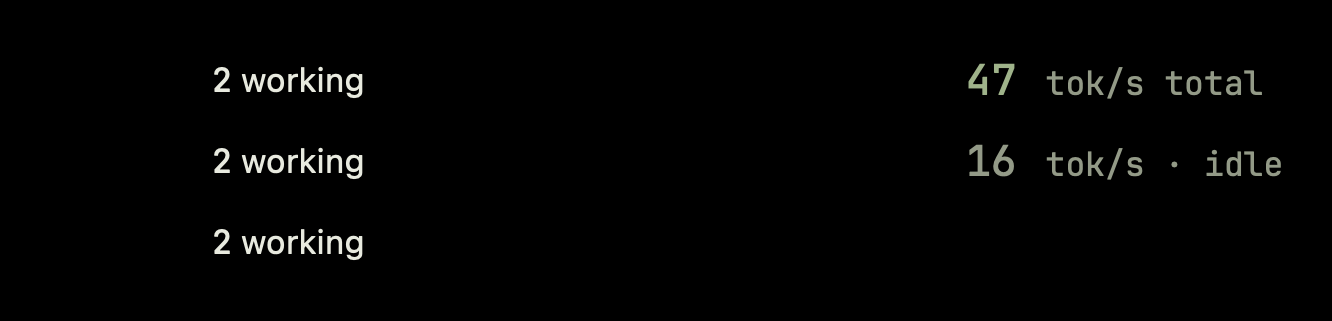
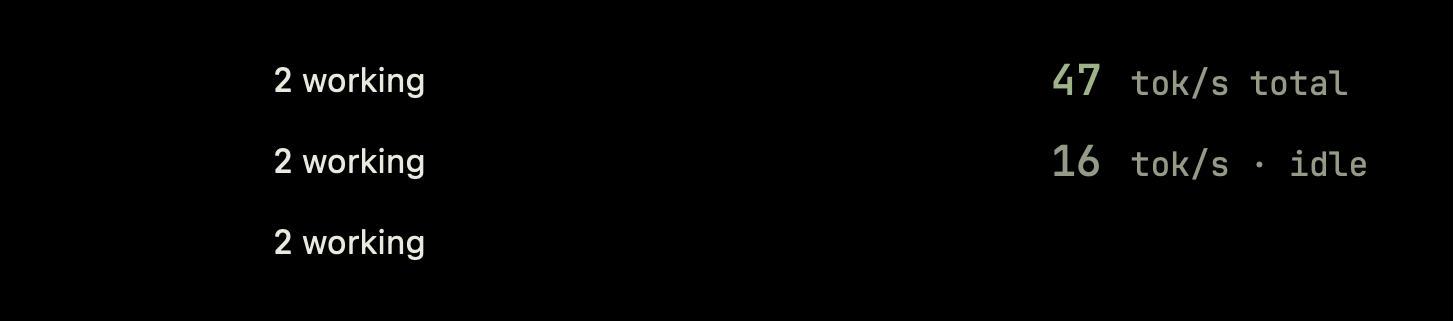
fleet: the closed bar fits its content (463 -> 305 pt on this display)
The collapsed fleet bar drew both wings at the wider side's content and always kept
notchWidth + 10 in the middle, so on a display with no camera cutout (this machine's
1200x1920 panel, closed notch 185x30) a 195 pt empty middle sat in a 463 pt bar whose
text is 185 pt. Owner: "much wider than its content".

- Each wing is now the wider side's content plus 12 pt padding (closedRowSidePadding);
  the row's whole width comes from closedRowWidth.
- The middle keeps the camera gap only where a display has a hardware notch
  (closedRowGap: notchWidth + 10, the cutout plus 5 pt of clearance per side). Without
  one there is no cutout to clear, so the middle is one padding wide.
- The speed number reserves three digits (closedNumberMinWidth), so 0 -> 147 leaves the
  wing and the bar where they are; both numbers stay on the tabular mono face.
- closedSparklineWidth 40 -> 24 pays for that reserve, the way the height cut took its
  budget from the sparkline's height in #28.

Sample content "0 working" / sparkline + "0" + " tok/s total": 463 -> 305.5 pt
(2 x 134 + 195 -> 2 x (134.4 + 12) + 12) = 66.0 %, the visible bar with the closed
notch's own padding 491 -> 333.5 pt = 67.9 %. "12 working" / "147 tok/s total":
497 -> 305.5 pt = 61.5 %. Height, open notch and data unchanged.

Tests: 223, 0 failures, including the new content-fit/70 %, equal-wing centring (with
the ink positions measured) and three-digit stability cases.

diff --git a/boringNotchTests/FleetFormatTests.swift b/boringNotchTests/FleetFormatTests.swift
@@ -174,10 +174,11 @@ final class FleetFormatTests: XCTestCase {
         XCTAssertEqual(FleetFormat.closedAlert(critical: 3, down: 1), "3 critical")
     }
 
-    /// Both sides take the wider text, never past the cap: a short row makes a narrow notch.
+    /// Both sides take the wider content plus the wing padding, never past the cap: a short row makes
+    /// a narrow notch.
     func testClosedRowSideTakesTheWiderTextUpToTheCap() {
-        XCTAssertEqual(FleetPanelMetrics.closedRowSide(left: 60, right: 70), 70)
-        XCTAssertEqual(FleetPanelMetrics.closedRowSide(left: 90, right: 70), 90)
+        XCTAssertEqual(FleetPanelMetrics.closedRowSide(left: 60, right: 70), 82)
+        XCTAssertEqual(FleetPanelMetrics.closedRowSide(left: 90, right: 70), 102)
         XCTAssertEqual(FleetPanelMetrics.closedRowSide(left: 400, right: 70), FleetPanelMetrics.closedRowSideWidth)
     }
 
@@ -642,11 +643,11 @@ final class FleetFormatTests: XCTestCase {
     }
 
     /// The row draws its sparkline at exactly this frame, so the number beside it never moves the
-    /// notch: the strip the preview shows is 40 pt of trend, 10 pt tall - the 0.7 x 14 share rounded
-    /// to a whole point, so the sparkline stays inside the shorter bar. The width is the bar's width
-    /// budget and does not change, because the cut is height-only.
+    /// notch: the strip the preview shows is 24 pt of trend, 10 pt tall - the 0.7 x 14 share rounded
+    /// to a whole point, so the sparkline stays inside the shorter bar. The 24 pt width is the width
+    /// cut's share of the bar's width budget: it pays for the speed number's three-digit reserve.
     func testClosedSparklineFrameIsItsFixedSize() {
-        XCTAssertEqual(FleetPanelMetrics.closedSparklineWidth, 40)
+        XCTAssertEqual(FleetPanelMetrics.closedSparklineWidth, 24)
         XCTAssertEqual(FleetPanelMetrics.closedSparklineHeight, 10,
                        "0.7 x 14, rounded to a whole point")
         XCTAssertLessThan(FleetPanelMetrics.closedSparklineHeight,
@@ -914,7 +915,7 @@ final class FleetFormatTests: XCTestCase {
                        "the zeroed reading never says idle, got \(zero.unit)")
     }
 
-    /// The closed row prints the number at `closedSpeedNumberSize` beside a 40 pt sparkline, so a
+    /// The closed row prints the number at `closedSpeedNumberSize` beside a 24 pt sparkline, so a
     /// long number - or an idle reading with its " · idle" tail - trades its rate words down the
     /// ladder " tok/s total" -> " tok/s" -> " t/s" until the pair fits the row's text budget again.
     /// The idle suffix rides on every candidate, so the budget only ever trims the rate words in
@@ -922,10 +923,11 @@ final class FleetFormatTests: XCTestCase {
     func testClosedSpeedUnitLadderNarrowsForALongNumber() {
         XCTAssertEqual(FleetFormat.closedSpeedUnit(number: "47", total: true), " tok/s total")
         XCTAssertEqual(FleetFormat.closedSpeedUnit(number: "47", total: false), " tok/s")
-        // Long enough that even " tok/s" does not fit beside the number: the short form wins.
-        XCTAssertEqual(FleetFormat.closedSpeedUnit(number: "1234567890", total: true), " t/s")
-        XCTAssertEqual(FleetFormat.closedSpeedUnit(number: "1234567890", total: false), " t/s")
-        // The idle ladder keeps the same order: the " · idle" tail never drops, and it is the 40 pt
+        // Ten digits: 24 pt sparkline + 3 + 84 (the digits) + 3 + 39.6 (" tok/s") = 153.6 <= 160, so
+        // " tok/s" fits and only the " total" word is trimmed; the short form is no longer the fallback.
+        XCTAssertEqual(FleetFormat.closedSpeedUnit(number: "1234567890", total: true), " tok/s")
+        XCTAssertEqual(FleetFormat.closedSpeedUnit(number: "1234567890", total: false), " tok/s")
+        // The idle ladder keeps the same order: the " · idle" tail never drops, and it is the 24 pt
         // sparkline sharing the row's budget that trims the rate words in front of it - measured at
         // the bundled mono, " tok/s total · idle" is too wide beside a two-digit number, so "total"
         // goes and the kept value reads " tok/s · idle".
@@ -937,7 +939,9 @@ final class FleetFormatTests: XCTestCase {
 
         // The fit helper measures the same pair the row renders.
         XCTAssertTrue(FleetFormat.closedSpeedFits(number: "47", unit: " tok/s total"))
-        XCTAssertFalse(FleetFormat.closedSpeedFits(number: "1234567890", unit: " tok/s"))
+        // Ten digits: " tok/s" fits (153.6 <= 160) while " tok/s total" does not, so the pair flips there.
+        XCTAssertTrue(FleetFormat.closedSpeedFits(number: "1234567890", unit: " tok/s"))
+        XCTAssertFalse(FleetFormat.closedSpeedFits(number: "1234567890", unit: " tok/s total"))
     }
 
     /// The origin box says "Working" in the skin's accent - the black skin's only green - so
@@ -1145,15 +1149,124 @@ final class FleetFormatTests: XCTestCase {
                        "no ink in the bottommost two pixel rows")
     }
 
+    // Content-sized wings keep the closed bar below seventy percent of its previous width.
+    @MainActor
+    func testTheClosedRowFitsItsContentAndIsUnderSeventyPercentOfTheOldBar() throws {
+        FleetType.registerBundledFonts(in: Bundle(for: FleetFormatTests.self))
+        let theme = FleetTheme(skin: .black)
+        let flat: [Double?] = Array(repeating: 0, count: 60)
+        let zeroReading = try XCTUnwrap(
+            FleetFormat.closedRightReading(speed: FleetSpeed(current: 0, lastAt: nil), jobs: 0, total: true))
+        let bigReading = try XCTUnwrap(
+            FleetFormat.closedRightReading(speed: FleetSpeed(current: 147, lastAt: nil), jobs: 0, total: true))
+        // The bitmap has two wings and two pixels per point.
+        let wing = CGFloat(try rowBitmap(working: 0, alert: nil, reading: zeroReading,
+                                        blackHole: false, gap: 0, trend: flat).pixelsWide) / 4
+        let rightContent = FleetPanelMetrics.closedSparklineWidth + FleetPanelMetrics.closedSpeedSpacing
+            + FleetPanelMetrics.closedNumberMinWidth + FleetPanelMetrics.closedSpeedSpacing
+            + FleetType.monoWidth(text: " tok/s total", size: FleetPanelMetrics.minTextSize)
+        XCTAssertEqual(wing, rightContent + FleetPanelMetrics.closedRowSidePadding, accuracy: 0.5)
+
+        // The old sparkline was 40 pt wide and the speed number had no three-digit reserve.
+        let oldRightContent: CGFloat = 40 + FleetPanelMetrics.closedSpeedSpacing
+            + FleetType.monoWidth(text: "0", size: FleetPanelMetrics.closedSpeedNumberSize, weight: .medium)
+            + FleetPanelMetrics.closedSpeedSpacing
+            + FleetType.monoWidth(text: " tok/s total", size: FleetPanelMetrics.minTextSize)
+        // A display without a hardware notch had a 185 pt closed notch width, and the old code
+        // added 5 pt clearance on each side on every display.
+        let oldWidth = 2 * min(FleetPanelMetrics.closedRowTextWidth, oldRightContent) + (185 + 10)
+        let gap = FleetPanelMetrics.closedRowGap(notchWidth: 185, hasHardwareNotch: false)
+        let newWidth = CGFloat(try rowBitmap(working: 0, alert: nil, reading: zeroReading,
+                                            blackHole: false, gap: gap, trend: flat).pixelsWide) / 2
+        XCTAssertLessThanOrEqual(newWidth, 0.70 * oldWidth,
+                                 "The new width \(newWidth) must be at most 70 percent of the old width \(oldWidth).")
+
+        // Request the preview with `TEST_RUNNER_FLEET_CLOSED_WIDTH_PREVIEW=/tmp/width.png xcodebuild test`.
+        if let previewPath = ProcessInfo.processInfo.environment["FLEET_CLOSED_WIDTH_PREVIEW"] {
+            let renderer = ImageRenderer(content: VStack(spacing: 6) {
+                FleetClosedRowView(working: 0, alert: nil, reading: zeroReading, theme: theme,
+                                   gapWidth: gap, height: closedBarHeight, trend: flat)
+                FleetClosedRowView(working: 12, alert: nil, reading: bigReading, theme: theme,
+                                   gapWidth: gap, height: closedBarHeight, trend: flat)
+                FleetClosedRowView(working: 2, alert: "3 critical", reading: zeroReading, theme: theme,
+                                   gapWidth: gap, height: closedBarHeight, trend: flat)
+            }.padding(.horizontal, 14).padding(.vertical, 6).background(Color.black))
+            renderer.scale = 3
+            XCTAssertNotNil(renderer.nsImage, "The closed-width preview rendered.")
+            let image = try XCTUnwrap(renderer.nsImage)
+            let bitmap = try XCTUnwrap(NSBitmapImageRep(data: try XCTUnwrap(image.tiffRepresentation)))
+            let png = try XCTUnwrap(bitmap.representation(using: .png, properties: [:]))
+            XCTAssertNoThrow(try Data(png).write(to: URL(fileURLWithPath: previewPath)),
+                             "The closed-width preview wrote.")
+        }
+    }
+
+    // Equal wings keep the middle centred even when the working count changes.
+    @MainActor
+    func testTheClosedRowWingsAreEqualSoTheMiddleStaysCentred() throws {
+        FleetType.registerBundledFonts(in: Bundle(for: FleetFormatTests.self))
+        let flat: [Double?] = Array(repeating: 0, count: 60)
+        let zeroReading = try XCTUnwrap(
+            FleetFormat.closedRightReading(speed: FleetSpeed(current: 0, lastAt: nil), jobs: 0, total: true))
+        let rightContent = FleetPanelMetrics.closedSparklineWidth + FleetPanelMetrics.closedSpeedSpacing
+            + FleetPanelMetrics.closedNumberMinWidth + FleetPanelMetrics.closedSpeedSpacing
+            + FleetType.monoWidth(text: " tok/s total", size: FleetPanelMetrics.minTextSize)
+        let wing = FleetPanelMetrics.closedRowSide(left: 0, right: rightContent)
+        let gap = FleetPanelMetrics.closedRowGap(notchWidth: 185, hasHardwareNotch: false)
+        let bitmap = try rowBitmap(working: 0, alert: nil, reading: zeroReading,
+                                   blackHole: false, gap: gap, trend: flat)
+        let busyBitmap = try rowBitmap(working: 12, alert: nil, reading: zeroReading,
+                                       blackHole: false, gap: gap, trend: flat)
+        let scale: CGFloat = 2
+        XCTAssertEqual(CGFloat(bitmap.pixelsWide) / scale, CGFloat(busyBitmap.pixelsWide) / scale, accuracy: 0.5)
+        // The render snaps to the half-point pixel grid, and SwiftUI's text measurement can sit a
+        // fraction from NSFont's, so the rendered width is the metric's arithmetic rounded to that
+        // grid (305.5 rendered against 304.8 from the metrics at scale 2).
+        XCTAssertEqual(CGFloat(bitmap.pixelsWide) / scale, 2 * wing + gap, accuracy: 1.0)
+
+        // Ink is any sRGB channel above 0.05 against the black background.
+        func hasInk(inColumn x: Int) -> Bool {
+            for y in 0..<bitmap.pixelsHigh {
+                guard let pixel = bitmap.colorAt(x: x, y: y)?.usingColorSpace(.sRGB) else { continue }
+                if pixel.redComponent > 0.05 || pixel.greenComponent > 0.05 || pixel.blueComponent > 0.05 {
+                    return true
+                }
+            }
+            return false
+        }
+        let lastLeftInk = try XCTUnwrap((0..<Int(ceil(wing * scale))).last(where: hasInk))
+        let firstRightInk = try XCTUnwrap(
+            (Int(ceil((wing + gap) * scale))..<bitmap.pixelsWide).first(where: hasInk))
+        XCTAssertEqual(CGFloat(lastLeftInk) / scale, wing, accuracy: 2)
+        XCTAssertEqual(CGFloat(firstRightInk) / scale, wing + gap, accuracy: 2)
+    }
+
+    // Reserving three digits keeps the bar still while the rate changes from zero to 147.
+    @MainActor
+    func testTheClosedSpeedNumberKeepsThreeDigits() throws {
+        FleetType.registerBundledFonts(in: Bundle(for: FleetFormatTests.self))
+        let flat: [Double?] = Array(repeating: 0, count: 60)
+        let zeroReading = try XCTUnwrap(
+            FleetFormat.closedRightReading(speed: FleetSpeed(current: 0, lastAt: nil), jobs: 0, total: true))
+        let bigReading = try XCTUnwrap(
+            FleetFormat.closedRightReading(speed: FleetSpeed(current: 147, lastAt: nil), jobs: 0, total: true))
+        let gap = FleetPanelMetrics.closedRowGap(notchWidth: 185, hasHardwareNotch: false)
+        let zeroWidth = CGFloat(try rowBitmap(working: 0, alert: nil, reading: zeroReading,
+                                             blackHole: false, gap: gap, trend: flat).pixelsWide) / 2
+        let bigWidth = CGFloat(try rowBitmap(working: 0, alert: nil, reading: bigReading,
+                                            blackHole: false, gap: gap, trend: flat).pixelsWide) / 2
+        XCTAssertEqual(zeroWidth, bigWidth, accuracy: 0.5)
+    }
+
     /// The closed row at `closedBarHeight` on black, at scale 2: the frame the closed bar draws in.
     @MainActor
     private func rowBitmap(working: Int, alert: String?, reading: FleetFormat.FleetClosedRightReading?,
-                           blackHole: Bool, trend: [Double?]? = nil) throws -> NSBitmapImageRep {
+                           blackHole: Bool, gap: CGFloat = 200, trend: [Double?]? = nil) throws -> NSBitmapImageRep {
         // The rows ask FleetType for the mono face, whose registration is memoised once per process.
         FleetType.registerBundledFonts(in: Bundle(for: FleetFormatTests.self))
         let renderer = ImageRenderer(content: FleetClosedRowView(
             working: working, alert: alert, reading: reading, theme: FleetTheme(skin: .black),
-            gapWidth: 200, height: closedBarHeight, trend: trend,
+            gapWidth: gap, height: closedBarHeight, trend: trend,
             blackHole: blackHole ? FleetBlackHoleState(working: working, isVisible: true) : .hidden
         ).background(Color.black))
         renderer.scale = 2

diff --git a/boringNotch/components/Fleet/FleetFormat.swift b/boringNotch/components/Fleet/FleetFormat.swift
@@ -549,10 +549,13 @@ enum FleetFormat {
     /// True when the number and unit together stay inside the closed row's text budget: the row also
     /// draws the speed sparkline left of the number, so its width plus the gap to the number comes out
     /// of the same budget. The number measures at `FleetPanelMetrics.closedSpeedNumberSize` (medium),
-    /// the unit at its `minTextSize`, joined by `closedSpeedSpacing`.
+    /// never narrower than the three-digit reserve (`closedNumberMinWidth`), so the fit check measures
+    /// the same box the layout reserves. The unit measures at its `minTextSize`, joined by
+    /// `closedSpeedSpacing`.
     static func closedSpeedFits(number: String, unit: String) -> Bool {
         FleetPanelMetrics.closedSparklineWidth + FleetPanelMetrics.closedSpeedSpacing
-            + FleetType.monoWidth(text: number, size: FleetPanelMetrics.closedSpeedNumberSize, weight: .medium)
+            + max(FleetPanelMetrics.closedNumberMinWidth,
+                  FleetType.monoWidth(text: number, size: FleetPanelMetrics.closedSpeedNumberSize, weight: .medium))
             + FleetPanelMetrics.closedSpeedSpacing
             + FleetType.monoWidth(text: unit, size: FleetPanelMetrics.minTextSize)
             <= FleetPanelMetrics.closedRowTextWidth
@@ -650,10 +653,23 @@ enum FleetPanelMetrics {
     /// only as wide as it needs to be. This cap holds the longest left line in 11 pt monospaced
     /// width (a safe upper bound for the 11 pt proportional "working").
     static let closedRowTextWidth: CGFloat = 160
-    static var closedRowSideWidth: CGFloat { closedRowTextWidth }
-    /// One side's width: the wider of the two texts, never past the cap.
+    /// The padding each wing gives its content (owner: 12 pt), so the text never sits on the bar's edge.
+    static let closedRowSidePadding: CGFloat = 12
+    /// One wing's ceiling: the text budget plus that padding. No wing grows past it.
+    static var closedRowSideWidth: CGFloat { closedRowTextWidth + closedRowSidePadding }
+    /// One wing's width: the wider of the two sides' content plus the padding, never past the cap.
     static func closedRowSide(left: CGFloat, right: CGFloat) -> CGFloat {
-        min(closedRowSideWidth, max(left, right))
+        min(closedRowSideWidth, max(left, right) + closedRowSidePadding)
+    }
+    /// The camera gap. A display with a hardware notch keeps the gap the cutout needs (the notch plus
+    /// 5 pt of clearance per side); a display without one has no cutout to clear, so the middle is one
+    /// padding wide.
+    static func closedRowGap(notchWidth: CGFloat, hasHardwareNotch: Bool) -> CGFloat {
+        hasHardwareNotch ? notchWidth + 10 : closedRowSidePadding
+    }
+    /// The closed row's whole width: two equal wings around the middle.
+    static func closedRowWidth(left: CGFloat, right: CGFloat, gap: CGFloat) -> CGFloat {
+        2 * closedRowSide(left: left, right: right) + gap
     }
     /// The closed row's speed reading: the number at this size (medium weight), its unit at
     /// `minTextSize` after this spacing. The bar is 70 % of the closed notch, so the number drops from
@@ -662,13 +678,24 @@ enum FleetPanelMetrics {
     /// (`closedSpeedFits`) measures with the same numbers.
     static let closedSpeedNumberSize: CGFloat = 14
     static let closedSpeedSpacing: CGFloat = 3
+    /// The speed number never draws narrower than three digits, so "0" and "147 tok/s total" leave the
+    /// wing - and so the whole bar - where they are.
+    static let closedNumberMinDigits = 3
+    /// The three-digit reserve the speed number is drawn into: `closedNumberMinDigits` zeros at
+    /// `closedSpeedNumberSize` (medium mono).
+    static var closedNumberMinWidth: CGFloat {
+        FleetType.monoWidth(text: String(repeating: "0", count: closedNumberMinDigits),
+                            size: closedSpeedNumberSize, weight: .medium)
+    }
     /// The closed row's speed sparkline: the last ten minutes of trend readings drawn left of the
     /// speed number, `closedSpeedSpacing` from it. Small on purpose - it only has to show *when* the
-    /// line last rose, and `closedSpeedFits` subtracts its width from the row's text budget.
-    static let closedSparklineWidth: CGFloat = 40
+    /// line last rose, and `closedSpeedFits` subtracts its width from the row's text budget. The width
+    /// cut takes its budget from the sparkline's own width (40 -> 24 pt), the same way the height cut
+    /// took its budget from the sparkline's height; 24 pt still shows the ten-minute trend, and it pays
+    /// for the number's three-digit reserve (`closedNumberMinWidth`).
+    static let closedSparklineWidth: CGFloat = 24
     /// Short enough to sit inside the speed number's line box without pushing the row taller. The
-    /// height follows the bar's 70 % (0.7 x 14), so the sparkline stays inside the shorter bar. The
-    /// 40 pt width is the bar's width budget and does not change, because the cut is height-only.
+    /// height follows the bar's 70 % (0.7 x 14), so the sparkline stays inside the shorter bar.
     static let closedSparklineHeight: CGFloat = 10
     /// The current-work column: 604 pt section, less the 18 pt lead and 1 pt rule, the 292 pt map and
     /// the 20 + 1 + 20 pt around the hairline.

diff --git a/boringNotch/components/Fleet/FleetClosedRowView.swift b/boringNotch/components/Fleet/FleetClosedRowView.swift
@@ -14,6 +14,9 @@ import SwiftUI
 /// build takes the count's place while nothing works), the hardware gap in the middle and the speed
 /// reading on the right. Split out of `FleetClosedIndicator` (which owns the store, the skin default
 /// and the view model) so the row itself can be rendered without them.
+/// Both wings are as wide as the wider side's content plus `FleetPanelMetrics.closedRowSidePadding`
+/// (12 pt), so the row is only as wide as its text needs. The middle, the camera gap on a display with
+/// a hardware notch and one padding wide without one, stays on the row's centre, over the camera.
 /// The bar draws at 70 % of the closed notch (`FleetPanelMetrics.closedBarHeight`), so every
 /// label in it sits on the fleet's 11 pt floor (`FleetPanelMetrics.minTextSize`).
 struct FleetClosedRowView: View {
@@ -37,8 +40,8 @@ struct FleetClosedRowView: View {
     var blackHole: FleetBlackHoleState = .hidden
 
     var body: some View {
-        // Both sides take the wider text's width so the camera gap sits on the physical notch's
-        // centre; unequal sides would push the gap off-centre and the notch would cover text.
+        // Both sides take the wider text's width plus the padding so the camera gap sits on the physical
+        // notch's centre; unequal sides would push the gap off-centre and the notch would cover text.
         FleetEqualSidesLayout {
             // Left block: the black hole while the fleet works, "2 working" beside it, plus
             // "· 1 down" / "· 3 critical" only when something is wrong. All linked is the normal
@@ -90,6 +93,9 @@ struct FleetClosedRowView: View {
                             .font(FleetType.mono(size: FleetPanelMetrics.closedSpeedNumberSize, weight: .medium))
                             .foregroundColor(reading.dim ? theme.dim : theme.accent)
                             .lineLimit(1)
+                            // At least three digits wide, filled from the unit's side: the number grows into its own
+                            // reserve instead of moving the sparkline, the wing and so the whole bar.
+                            .frame(minWidth: FleetPanelMetrics.closedNumberMinWidth, alignment: .trailing)
                         Text(reading.unit)
                             .font(FleetType.mono(size: FleetPanelMetrics.minTextSize))
                             .foregroundColor(theme.dim)
@@ -179,15 +185,17 @@ struct FleetClosedSparkline: View {
 
 // MARK: - Equal Sides Layout
 
-/// Lays out [left, gap, right] with both sides as wide as the wider of the two (see
-/// `FleetPanelMetrics.closedRowSide`): the left text hugs the gap from the left, the right text from
-/// the right, and the gap stays on the row's centre, over the camera.
+/// Lays out [left, gap, right] with both wings as wide as the wider side's content plus
+/// `FleetPanelMetrics.closedRowSidePadding` (see `FleetPanelMetrics.closedRowSide`): the left text
+/// hugs the gap from the left, the right text from the right, and the gap stays on the row's centre,
+/// over the camera. The row's total width comes from `FleetPanelMetrics.closedRowWidth`.
 struct FleetEqualSidesLayout: Layout {
     func sizeThatFits(proposal: ProposedViewSize, subviews: Subviews, cache: inout ()) -> CGSize {
         guard subviews.count == 3 else { return .zero }
         let sizes = subviews.map { $0.sizeThatFits(.unspecified) }
-        let side = FleetPanelMetrics.closedRowSide(left: sizes[0].width, right: sizes[2].width)
-        return CGSize(width: side * 2 + sizes[1].width, height: sizes.map(\.height).max() ?? 0)
+        return CGSize(width: FleetPanelMetrics.closedRowWidth(left: sizes[0].width, right: sizes[2].width,
+                                                              gap: sizes[1].width),
+                      height: sizes.map(\.height).max() ?? 0)
     }
 
     func placeSubviews(in bounds: CGRect, proposal: ProposedViewSize, subviews: Subviews, cache: inout ()) {

diff --git a/boringNotch/components/Fleet/FleetClosedIndicator.swift b/boringNotch/components/Fleet/FleetClosedIndicator.swift
@@ -35,7 +35,13 @@ struct FleetClosedIndicator: View {
                                                        jobs: model.runningTaskCount,
                                                        total: model.speedIsTotal),
                 theme: theme,
-                gapWidth: vm.closedNotchSize.width + 10,
+                // The middle of the closed row: a display with a hardware notch keeps the camera gap
+                // (`notchWidth + 10`, the cutout plus 5 pt of clearance per side); a display without one has
+                // no cutout to clear, so the middle is one padding wide and the bar fits its content.
+                gapWidth: FleetPanelMetrics.closedRowGap(
+                    notchWidth: vm.closedNotchSize.width,
+                    hasHardwareNotch: (vm.screenUUID.flatMap { NSScreen.screen(withUUID: $0) }?
+                        .safeAreaInsets.top ?? 0) > 0),
                 // The bar is 70 % of the closed notch: the notch's own height left it hanging well below the menu bar.
                 height: FleetPanelMetrics.closedBarHeight(vm.effectiveClosedNotchHeight),
                 toolRuns: model.toolRuns,
